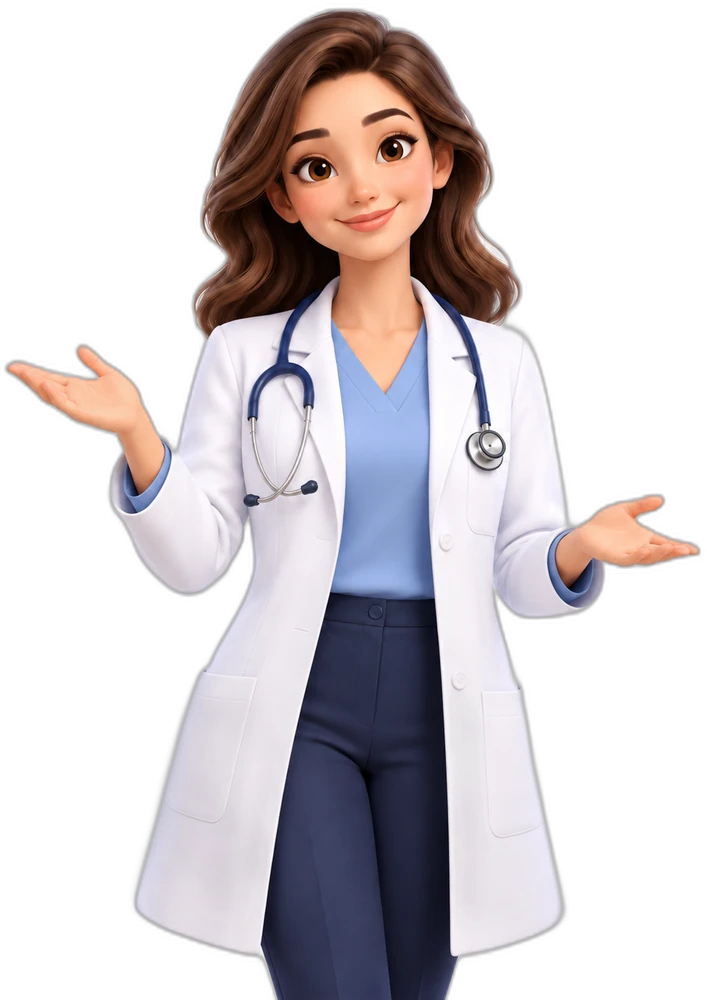
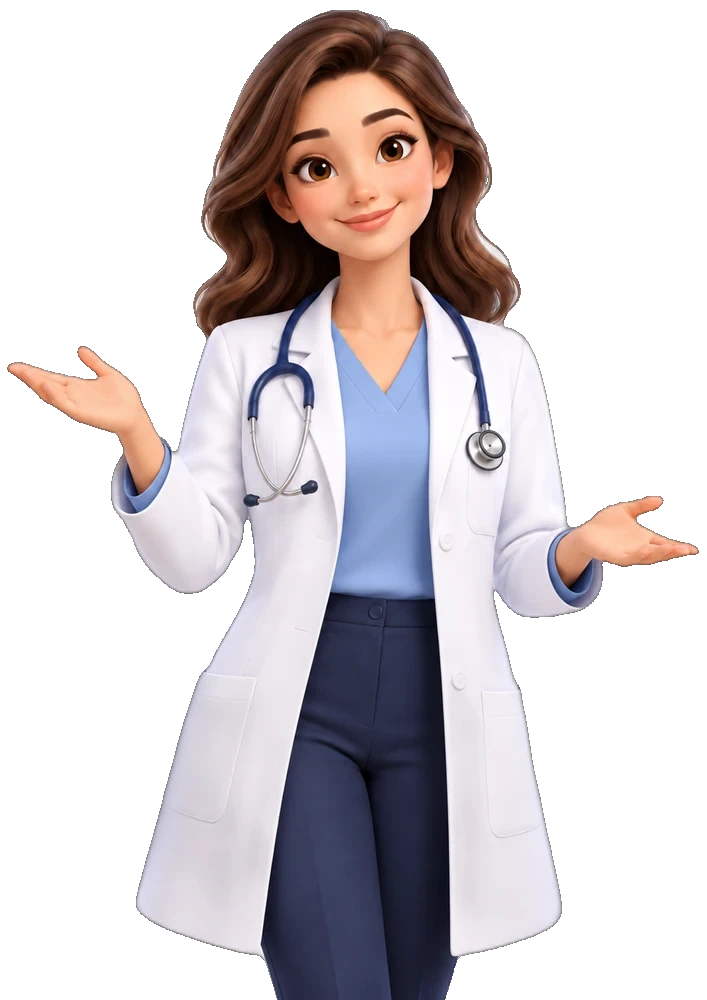
fix: remove transparência residual do jaleco e reduz mais o espaço do card mobile
Binariza o canal alpha das 6 imagens da médica (artefato do rembg deixava
um degradê semi-transparente no jaleco, visível como "sumindo" contra o
fundo escuro do app) e recomprime em WebP qualidade 90.

Reduz ainda mais o padding entre o avatar e o título no card mobile do
tutorial (pt-70px -> pt-40px).

Adiciona setinha pra esconder/mostrar o avatar fixo (canto superior
direito) -- útil se ele atrapalhar algo na tela; o indicador de lembrete
ativo continua visível mesmo escondido.

diff --git a/components/dashboard-avatar-assistant.tsx b/components/dashboard-avatar-assistant.tsx
@@ -17,6 +17,7 @@
 import { useEffect, useMemo, useState } from "react"
 import { format } from "date-fns"
 import { ptBR, es } from "date-fns/locale"
+import { ChevronLeft, ChevronRight } from "lucide-react"
 import { supabase } from "@/lib/supabase"
 import { buscarLembretesAtivos } from "@/lib/calendario-lembretes"
 import type { CalendarioLembreteAtivo } from "@/lib/calendario-types"
@@ -54,6 +55,9 @@ export function DashboardAvatarAssistant() {
   const [lembretes, setLembretes] = useState<CalendarioLembreteAtivo[]>([])
   const [dispensados, setDispensados] = useState<Set<string>>(new Set())
   const [faqAberto, setFaqAberto] = useState(false)
+  // Permite esconder o avatar (ex.: se ele atrapalhar algo na tela no
+  // mobile) -- a setinha continua visível, fixa na borda, pra reabrir.
+  const [escondido, setEscondido] = useState(false)
 
   useEffect(() => {
     let active = true
@@ -85,7 +89,24 @@ export function DashboardAvatarAssistant() {
     abrirAjudaPagina(passos)
   }
 
-  const mostrarBalao = !!lembreteAtivo || faqAberto
+  const mostrarBalao = !escondido && (!!lembreteAtivo || faqAberto)
+
+  if (escondido) {
+    return (
+      <button
+        type="button"
+        onClick={() => setEscondido(false)}
+        aria-label={t.tutorialDashboard.mostrarAvatar}
+        title={t.tutorialDashboard.mostrarAvatar}
+        className="fixed right-0 top-[88px] z-[120] flex h-11 w-7 items-center justify-center rounded-l-full border border-r-0 border-primary/50 bg-card shadow-lg transition-transform hover:-translate-x-0.5"
+      >
+        <ChevronLeft className="h-4 w-4 text-primary" />
+        {lembreteAtivo && (
+          <span className="absolute left-0.5 top-0.5 h-2 w-2 rounded-full bg-destructive" />
+        )}
+      </button>
+    )
+  }
 
   return (
     <>
@@ -100,6 +121,16 @@ export function DashboardAvatarAssistant() {
         {lembreteAtivo && (
           <span className="absolute right-1 top-1 h-4 w-4 rounded-full border-2 border-card bg-destructive" />
         )}
+      </button>
+
+      <button
+        type="button"
+        onClick={() => setEscondido(true)}
+        aria-label={t.tutorialDashboard.esconderAvatar}
+        title={t.tutorialDashboard.esconderAvatar}
+        className="fixed right-[94px] top-[104px] z-[120] flex h-9 w-6 items-center justify-center rounded-l-full border border-r-0 border-border bg-card/90 text-muted-foreground shadow-md transition-colors hover:text-primary"
+      >
+        <ChevronRight className="h-4 w-4" />
       </button>
 
       {mostrarBalao && (

diff --git a/lib/i18n.tsx b/lib/i18n.tsx
@@ -1119,6 +1119,8 @@ const pt = {
     reverBotao: "Rever tutorial",
     faqTitulo: "Em que posso ajudar?",
     clicarParaFechar: "Toque no avatar para fechar",
+    esconderAvatar: "Esconder avatar",
+    mostrarAvatar: "Mostrar avatar",
     bemVindoTitulo: "Bem-vindo(a) à MedClass!",
     bemVindoTexto:
       "Antes de começar, vamos te mostrar rapidinho cada ferramenta da plataforma pra você saber exatamente onde encontrar cada coisa. São vários passos, mas vale a pena — depois você pode rever isso quando quiser.",
@@ -2322,6 +2324,8 @@ const es: typeof pt = {
     reverBotao: "Repasar tutorial",
     faqTitulo: "¿En qué te ayudo?",
     clicarParaFechar: "Tocá el avatar para cerrar",
+    esconderAvatar: "Ocultar avatar",
+    mostrarAvatar: "Mostrar avatar",
     bemVindoTitulo: "¡Bienvenido/a a MedClass!",
     bemVindoTexto:
       "Antes de arrancar, te mostramos rápido cada herramienta de la plataforma para que sepas exactamente dónde encontrar cada cosa. Son varios pasos, pero vale la pena — después podés repasar esto cuando quieras.",

diff --git a/components/onboarding-tutorial.tsx b/components/onboarding-tutorial.tsx
@@ -243,7 +243,7 @@ export function TutorialProvider({ children }: { children: ReactNode }) {
             />
 
             <div
-              className={`relative pt-[70px] sm:pt-0 ${ladoInvertido ? "sm:pr-[235px]" : "sm:pl-[235px]"}`}
+              className={`relative pt-[40px] sm:pt-0 ${ladoInvertido ? "sm:pr-[235px]" : "sm:pl-[235px]"}`}
             >
               <div>
                 {passos.length > 1 && (
